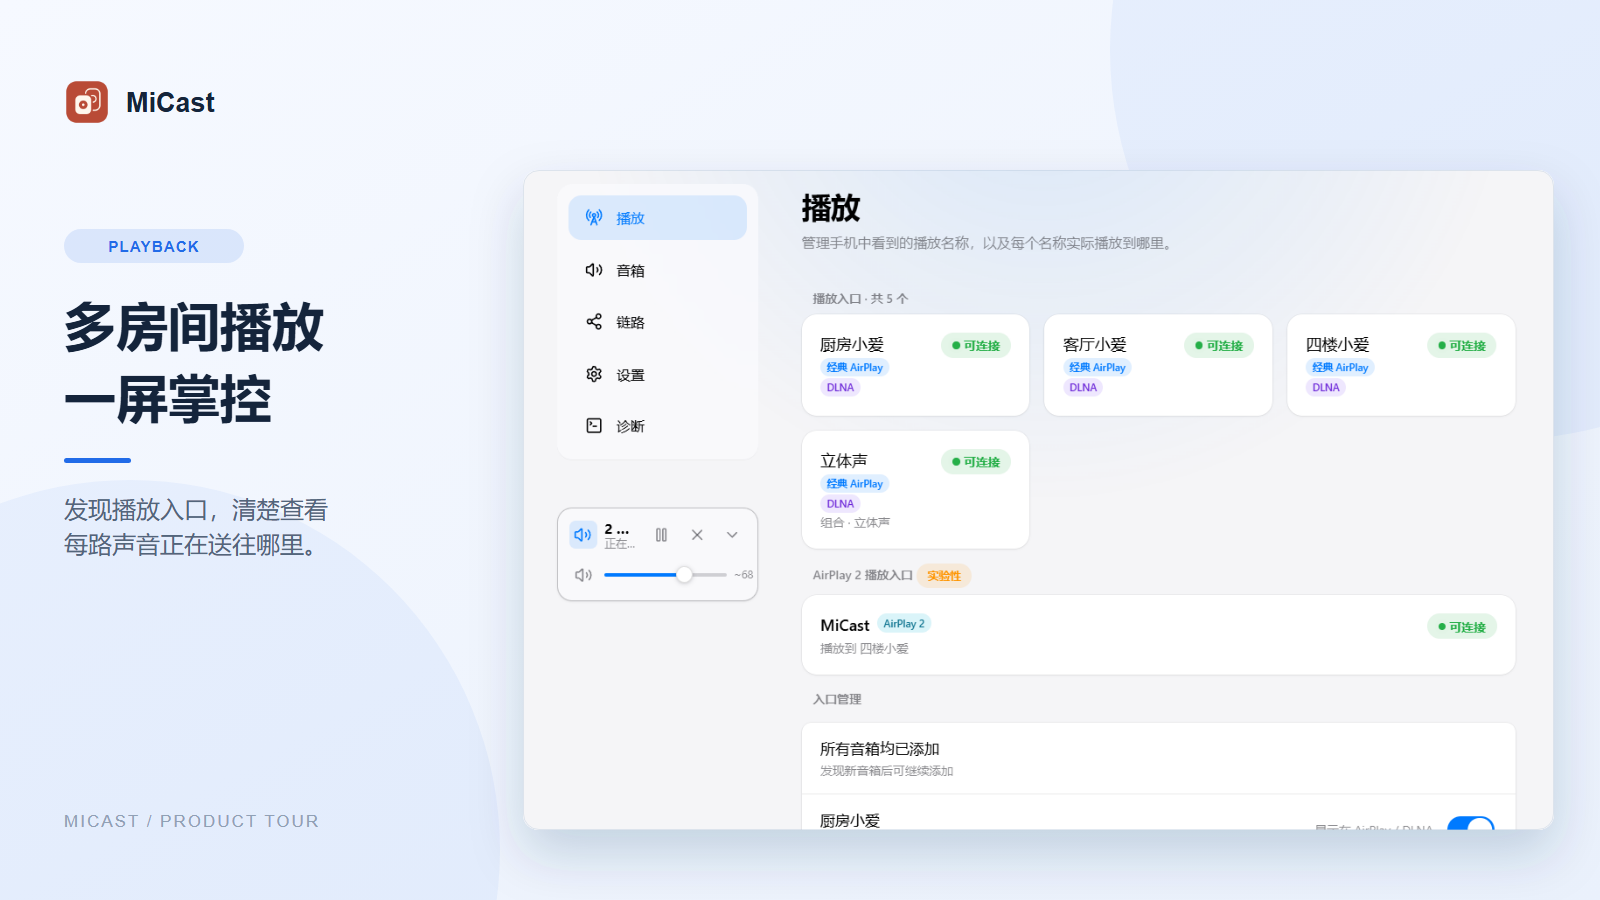
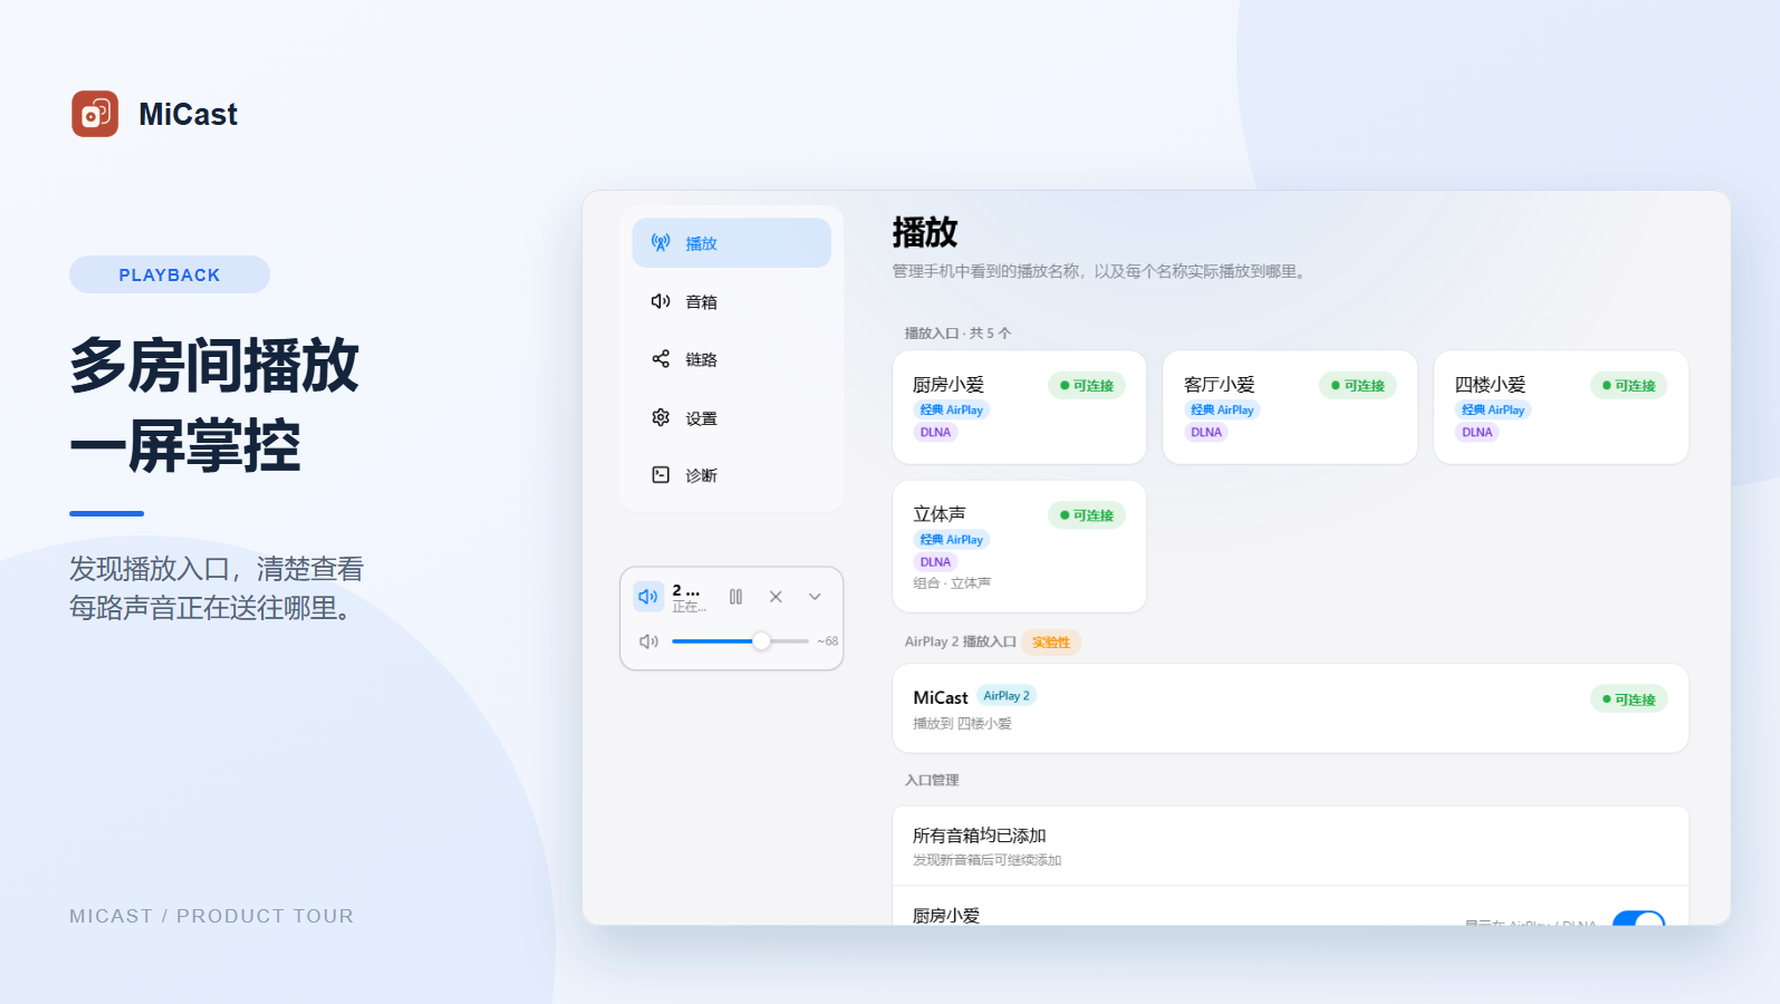
docs(fnos): 产品宣传图统一为 1780x1004 并新增转换脚本
- docs/screenshots 五张产品图改为 1780x1004（fnOS 应用商店宣传图规格），等比 cover 缩放 + 居中裁切，无变形
- 新增 scripts/build-product-images.py 复现转换；scripts/README.md 补充说明
- manifest 更新日志由 0.2.5 更新为 0.3.2 内容（下次打包生效）

diff --git a/scripts/build-product-images.py b/scripts/build-product-images.py
@@ -1,0 +1,59 @@
+"""Resize product screenshots to the fnOS store promo size (1780x1004).
+
+Images are cover-scaled (no distortion) and center-cropped to the target
+aspect ratio, so the extra/missing pixels are trimmed symmetrically.
+"""
+
+from __future__ import annotations
+
+import argparse
+from pathlib import Path
+
+from PIL import Image
+
+DEFAULT_SIZE = (1780, 1004)
+
+
+def fit(path: Path, size: tuple[int, int]) -> None:
+    with Image.open(path) as image:
+        image = image.convert("RGB")
+        scale = max(size[0] / image.width, size[1] / image.height)
+        resized = image.resize(
+            (round(image.width * scale), round(image.height * scale)),
+            Image.LANCZOS,
+        )
+        left = (resized.width - size[0]) // 2
+        top = (resized.height - size[1]) // 2
+        cropped = resized.crop((left, top, left + size[0], top + size[1]))
+        cropped.save(path, format="PNG", optimize=True)
+
+
+def main() -> int:
+    parser = argparse.ArgumentParser(description=__doc__)
+    parser.add_argument(
+        "directory",
+        nargs="?",
+        default="docs/screenshots",
+        help="directory holding the product screenshots",
+    )
+    parser.add_argument("--width", type=int, default=DEFAULT_SIZE[0])
+    parser.add_argument("--height", type=int, default=DEFAULT_SIZE[1])
+    args = parser.parse_args()
+
+    size = (args.width, args.height)
+    directory = Path(args.directory)
+    paths = sorted(directory.glob("*.png"))
+    if not paths:
+        print(f"no PNG found in {directory}")
+        return 1
+
+    for path in paths:
+        with Image.open(path) as image:
+            before = image.size
+        fit(path, size)
+        print(f"{path} {before[0]}x{before[1]} -> {size[0]}x{size[1]}")
+    return 0
+
+
+if __name__ == "__main__":
+    raise SystemExit(main())

diff --git a/scripts/README.md b/scripts/README.md
@@ -11,6 +11,7 @@
 | Linux 构建 fnOS x86 / ARM 包 | `bash scripts/build-fnos.sh x86` / `bash scripts/build-fnos.sh arm` |
 
 fnOS 打包的真正实现是 `scripts/build-fnos.sh`（bash）：它会校验 manifest 的 Python ABI 与 `micast/__init__.py` 的 `__version__` 同 manifest `version=` 一致，构建前端，按平台拉取 Linux 依赖并用 fnpack 生成 `.fpk`。`build-fnos.ps1` 只是薄封装——在 Windows 上找到 `bash.exe`（PATH 或 Git 默认安装路径）后透传 `-Platform` 参数调用 sh 脚本，因此需要已安装 Git for Windows 或 WSL，且 `fnpack` 与 `npm` 需在 PATH 中。
+| 生成应用商店宣传图尺寸 | `python scripts/build-product-images.py`（默认把 `docs/screenshots/*.png` 转为 1780×1004） |
 | 测量音频流交付间隔 | `python scripts/measure_stream.py STREAM_URL` |
 | Windows 防火墙配置 | 管理员终端运行 `pwsh -File scripts/configure-windows-firewall.ps1` |
 
